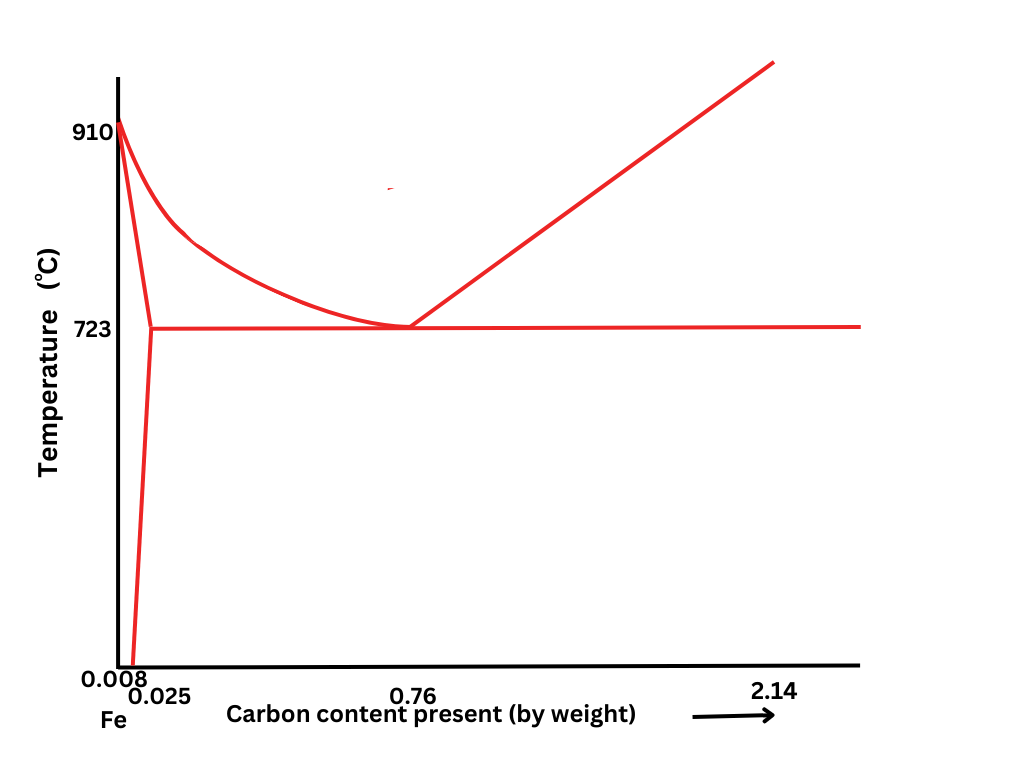
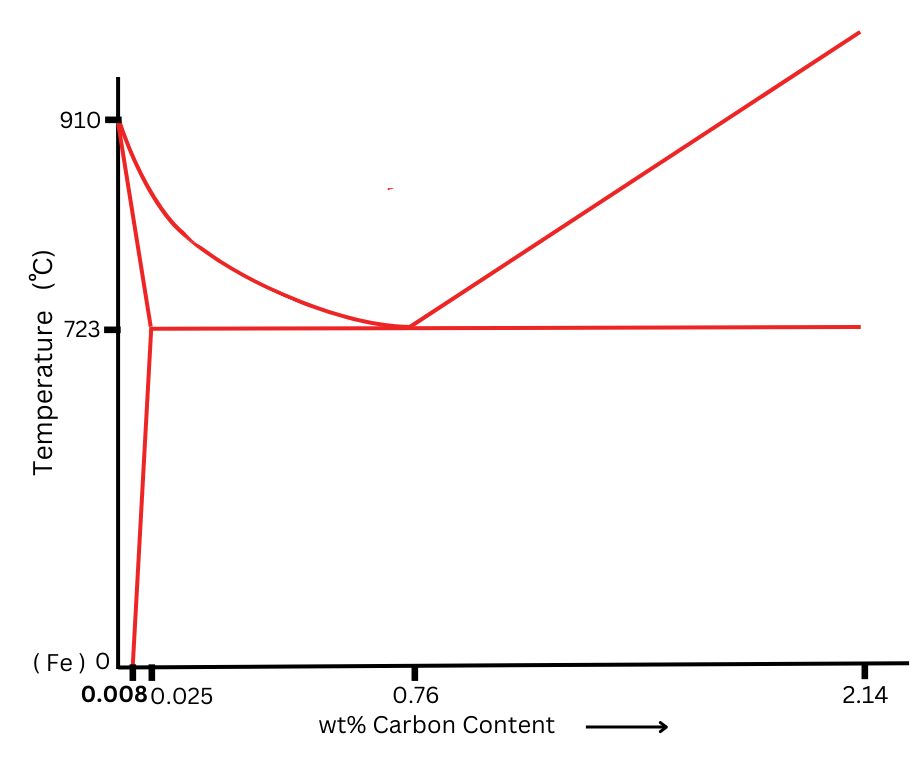
updated graph , font increase, add more points

diff --git a/Simulator1.html b/Simulator1.html
@@ -17,7 +17,7 @@
             text-decoration: none;
         }
 
-        .container {
+        .relative-container {
             position: relative;
             max-width: 100%;
         }
@@ -25,8 +25,8 @@
         .svg-container {
             position: absolute;
             top: 0;
-            /* left: 0; */
-            left: -235px;
+            left: 0;
+            /* left: -235px; */
             width: 100%;
             height: 100%;
         }
@@ -44,11 +44,6 @@
             transition: fill 0.3s;
         }
 
-        polygon:hover {
-            fill: rgba(255, 255, 0, 0.242);
-            stroke: rgba(255, 255, 0, 0.351);
-        }
-
         /* Add a new class to highlight the selected region */
         .highlighted {
             fill: rgba(153, 153, 150, 0.492);
@@ -56,16 +51,14 @@
             transition: fill 0.3s, stroke 0.3s;
         }
 
-        /* .optioncheckbox {
+        .info-box {
             display: flex;
+            justify-content: center;
             align-items: center;
-            margin-bottom: 10px;
-            cursor: pointer;
+            margin-top: 70px;
+            padding: 60px;
+            font-size: 20px
         }
-
-        .optioncheckbox input[type="checkbox"] {
-            margin-right: 8px;
-        } */
     </style>
 
 </head>
@@ -74,41 +67,43 @@
     <button type="button" class="btn btn-outline-info  mx-2 my-2"><a href="index.html"> Go to main page</a></button>
     <button type="button" class="btn btn-outline-info  m-3"><a href="index.html">Back </a></button>
     <button type="button" class="btn btn-outline-info  m-3"><a href="Simulator2.html">Next </a></button>
-    <h4 class="d-flex justify-content-center align-items-center"> Steel Part of the Iron-Carbon Phase Diagram </h4>
+    <h2 class="d-flex justify-content-center align-items-center"> Steel Part of the Iron-Carbon Phase Diagram </h2>
     <div class="container">
         <div class="row">
-            <div class="col-md-10 col-sm-12">
+            <div class="col-md-8 col-sm-12 relative-container">
 
-                <img id="imageMap" src="images/Steel part of cp diagram simulator1 img.png" border="0" width="1024"
-                    height="768" usemap="#image-maps-2023-08-16-120336" alt="" />
+
+                <img id="imageMap" src="images/Steel part of cp diagram simulator1 img.png" alt="" />
 
                 <div class="svg-container">
                     <svg id="imageMapSvg" xmlns="http://www.w3.org/2000/svg" viewBox="0 0 1024 768">
 
                         <!-- Region F -->
-                        <polygon id="polygon-6" points="420,324,773,67,771,321" />
+                        <polygon id="polygon-6" points="420,323,859,326,860,36" />
 
                         <!-- Region C -->
-                        <polygon id="polygon-3" points="416,330,416,663,777,661,781,329" />
+                        <polygon id="polygon-3" points="414,330,416,669,864,661,858,327" />
 
                         <!-- Region B -->
-                        <polygon id="polygon-2" points="407,334 413,663 135,661 156,336" />
+                        <polygon id="polygon-2" points="154,332,134,661,412,660,415,330" />
 
                         <!-- Region A -->
-                        <polygon id="polygon-1" points="117,135 120,664 129,662 148,326" />
+                        <polygon id="polygon-1" points="116,128,120,668,127,666,148,327" />
 
                         <!-- Region D -->
                         <polygon id="polygon-4"
-                            points="118,118 153,325 403,325 356,318 305,304 265,282 226,265 202,249 176,225 158,196 141,170" />
+                            points="120,127,152,326,398,327,324,309,276,289,226,272,187,240,160,204" />
 
                         <!-- Region E -->
                         <polygon id="polygon-5"
-                            points="119,80,768,63,409,323,375,322,319,306,271,284,234,267,204,248,162,207,141,176,123,122" />
+                            points="122,119,706,127,408,322,366,318,306,304,250,279,196,241,148,186" />
                     </svg>
                 </div>
             </div>
 
-            <div class="col-md-2 col-sm-12">
+
+
+            <div class="col-md-4 col-sm-12">
                 <div class="info-box">
                     <div class="question">Which phase is represented by this region ? </div>
                     <div class="form-check">
@@ -153,8 +148,21 @@
                             Austenite and Cementite
                         </label>
                     </div>
-
-                    <button onclick="checkAnswer()" type="button" class="btn btn-outline-info">Check Answer</button>
+                    <div class="form-check">
+                        <input class="form-check-input" type="checkbox" name="option" value="OnlyPearlite"
+                            id="OnlyPearlite">
+                        <label class="form-check-label" for="OnlyPearlite">
+                            Only Pearlite
+                        </label>
+                    </div>
+                    <div class="form-check">
+                        <input class="form-check-input" type="checkbox" name="option" value="OnlyCementite"
+                            id="OnlyCementite">
+                        <label class="form-check-label" for="OnlyCementite">
+                            Only Cementite
+                        </label>
+                    </div>
+                    <button onclick="checkAnswer()" type="button" class="btn btn-outline-info my-2">Check Answer</button>
                     <div class="feedback"></div>
                 </div>
             </div>
